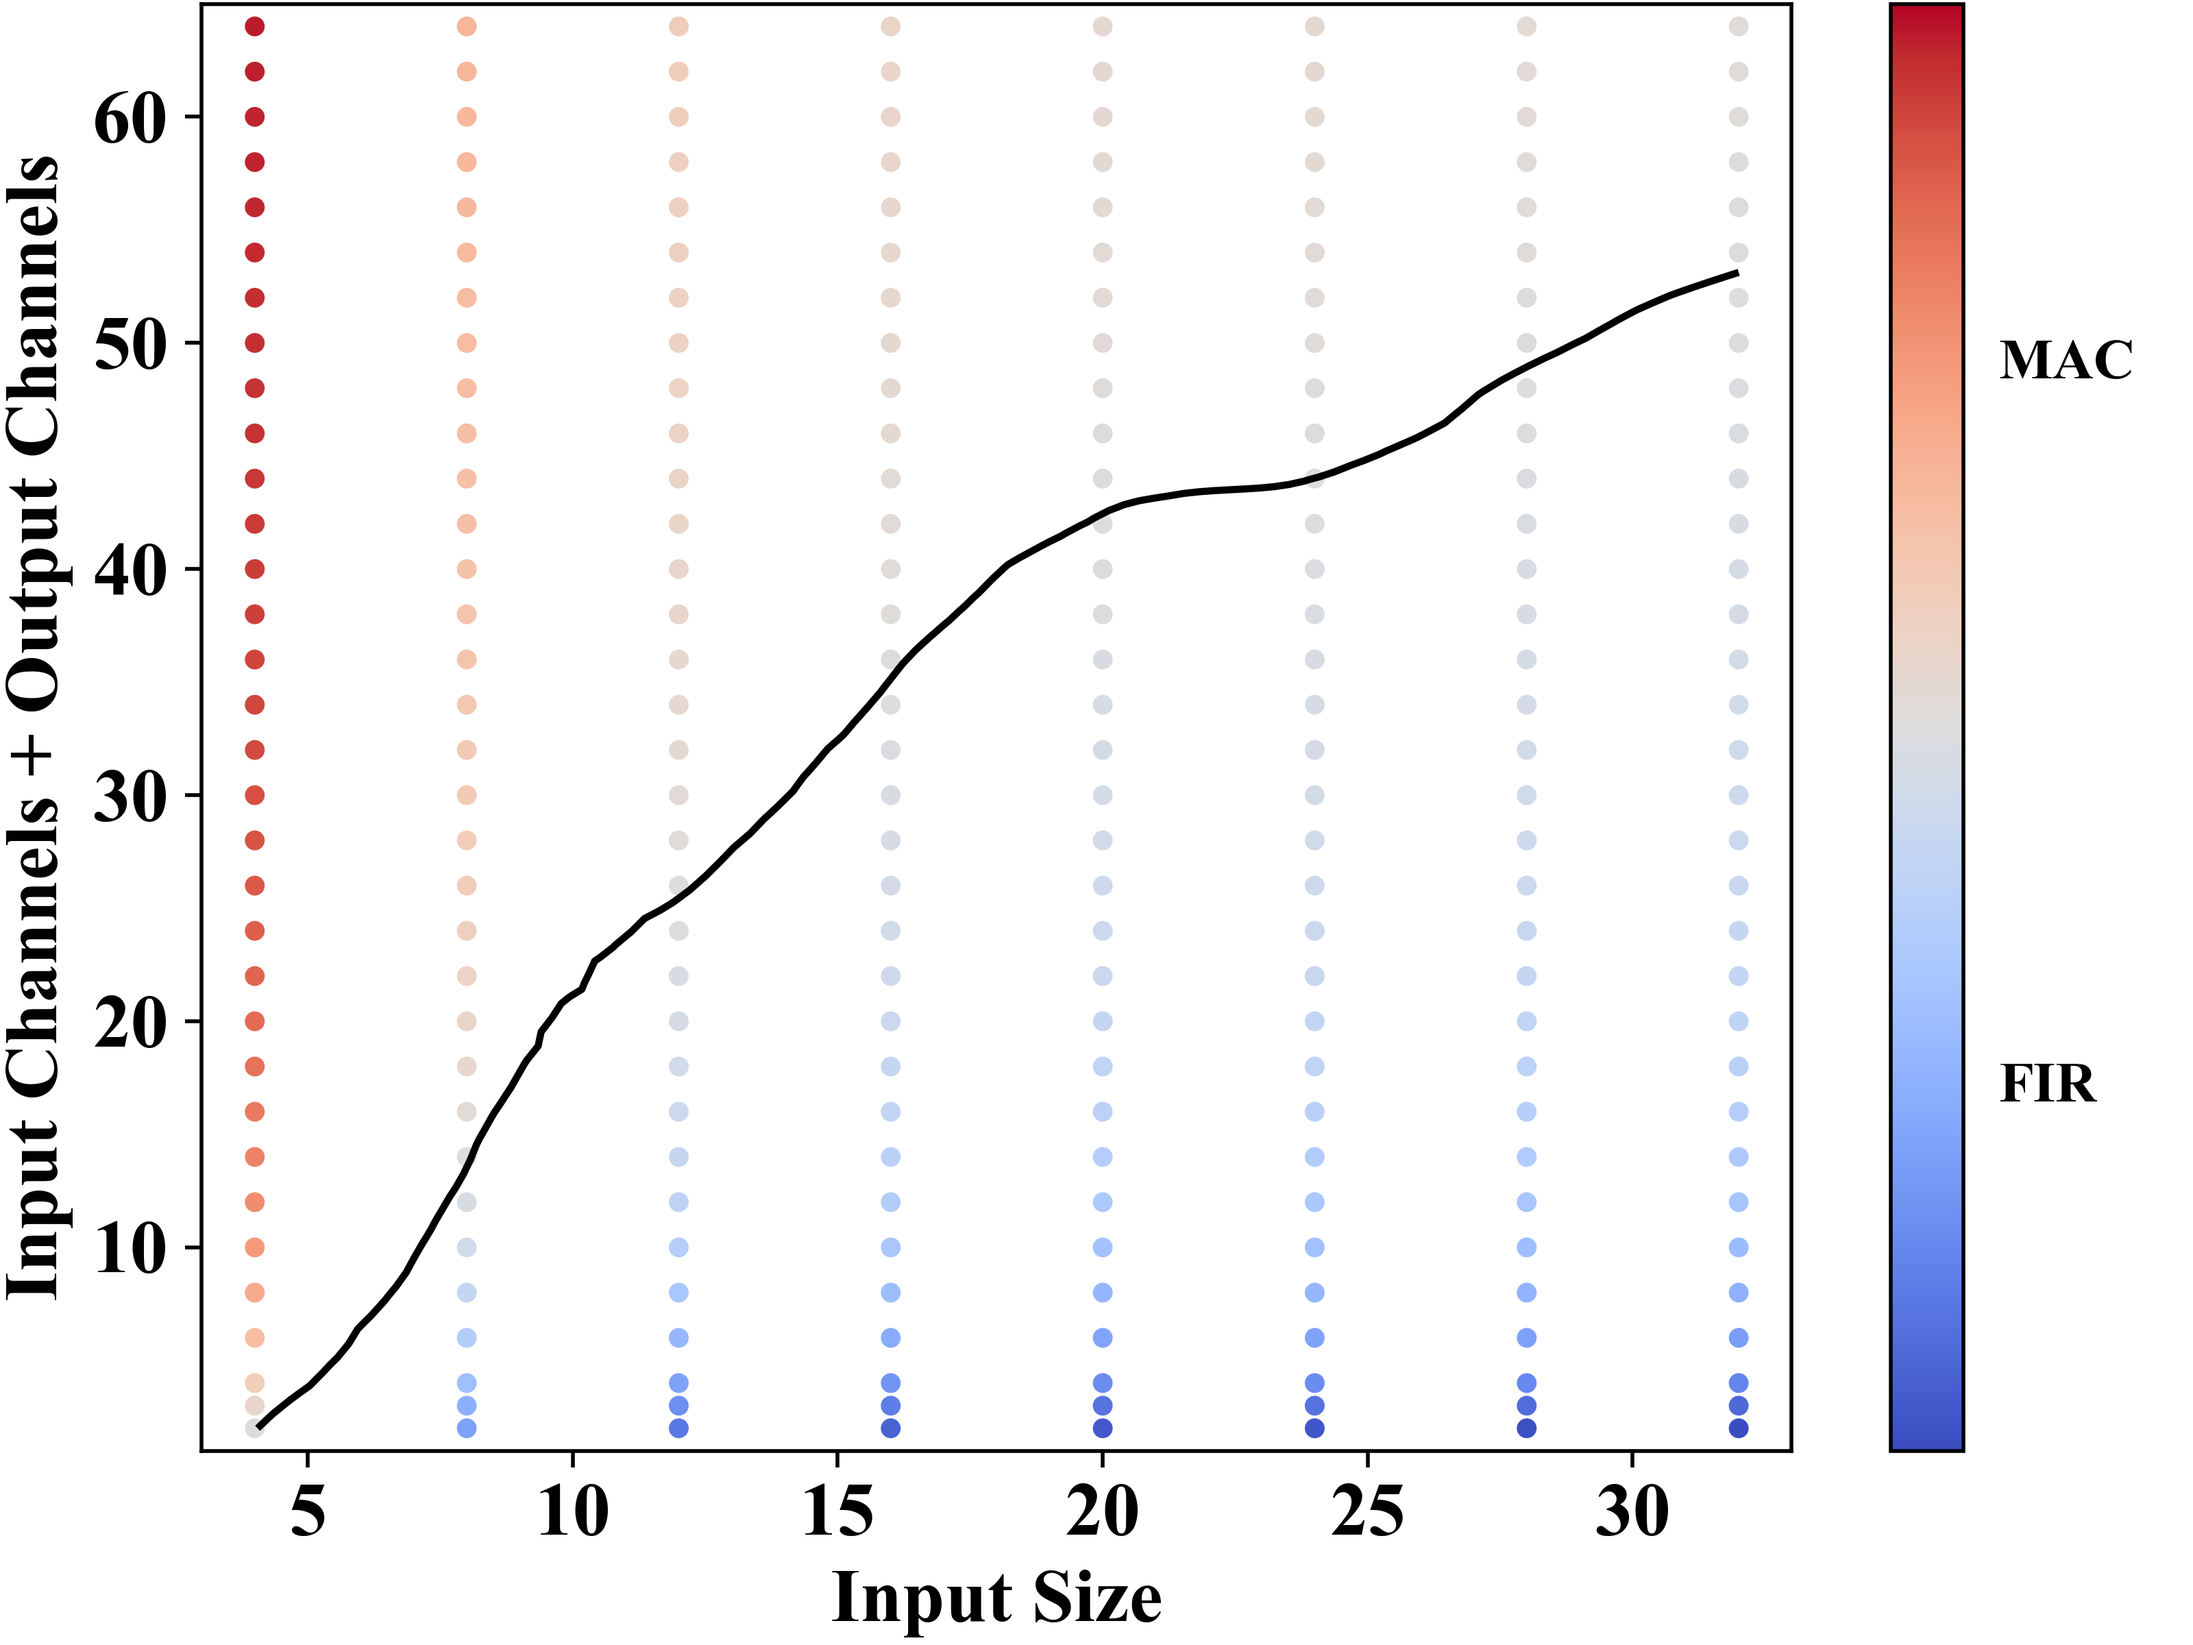
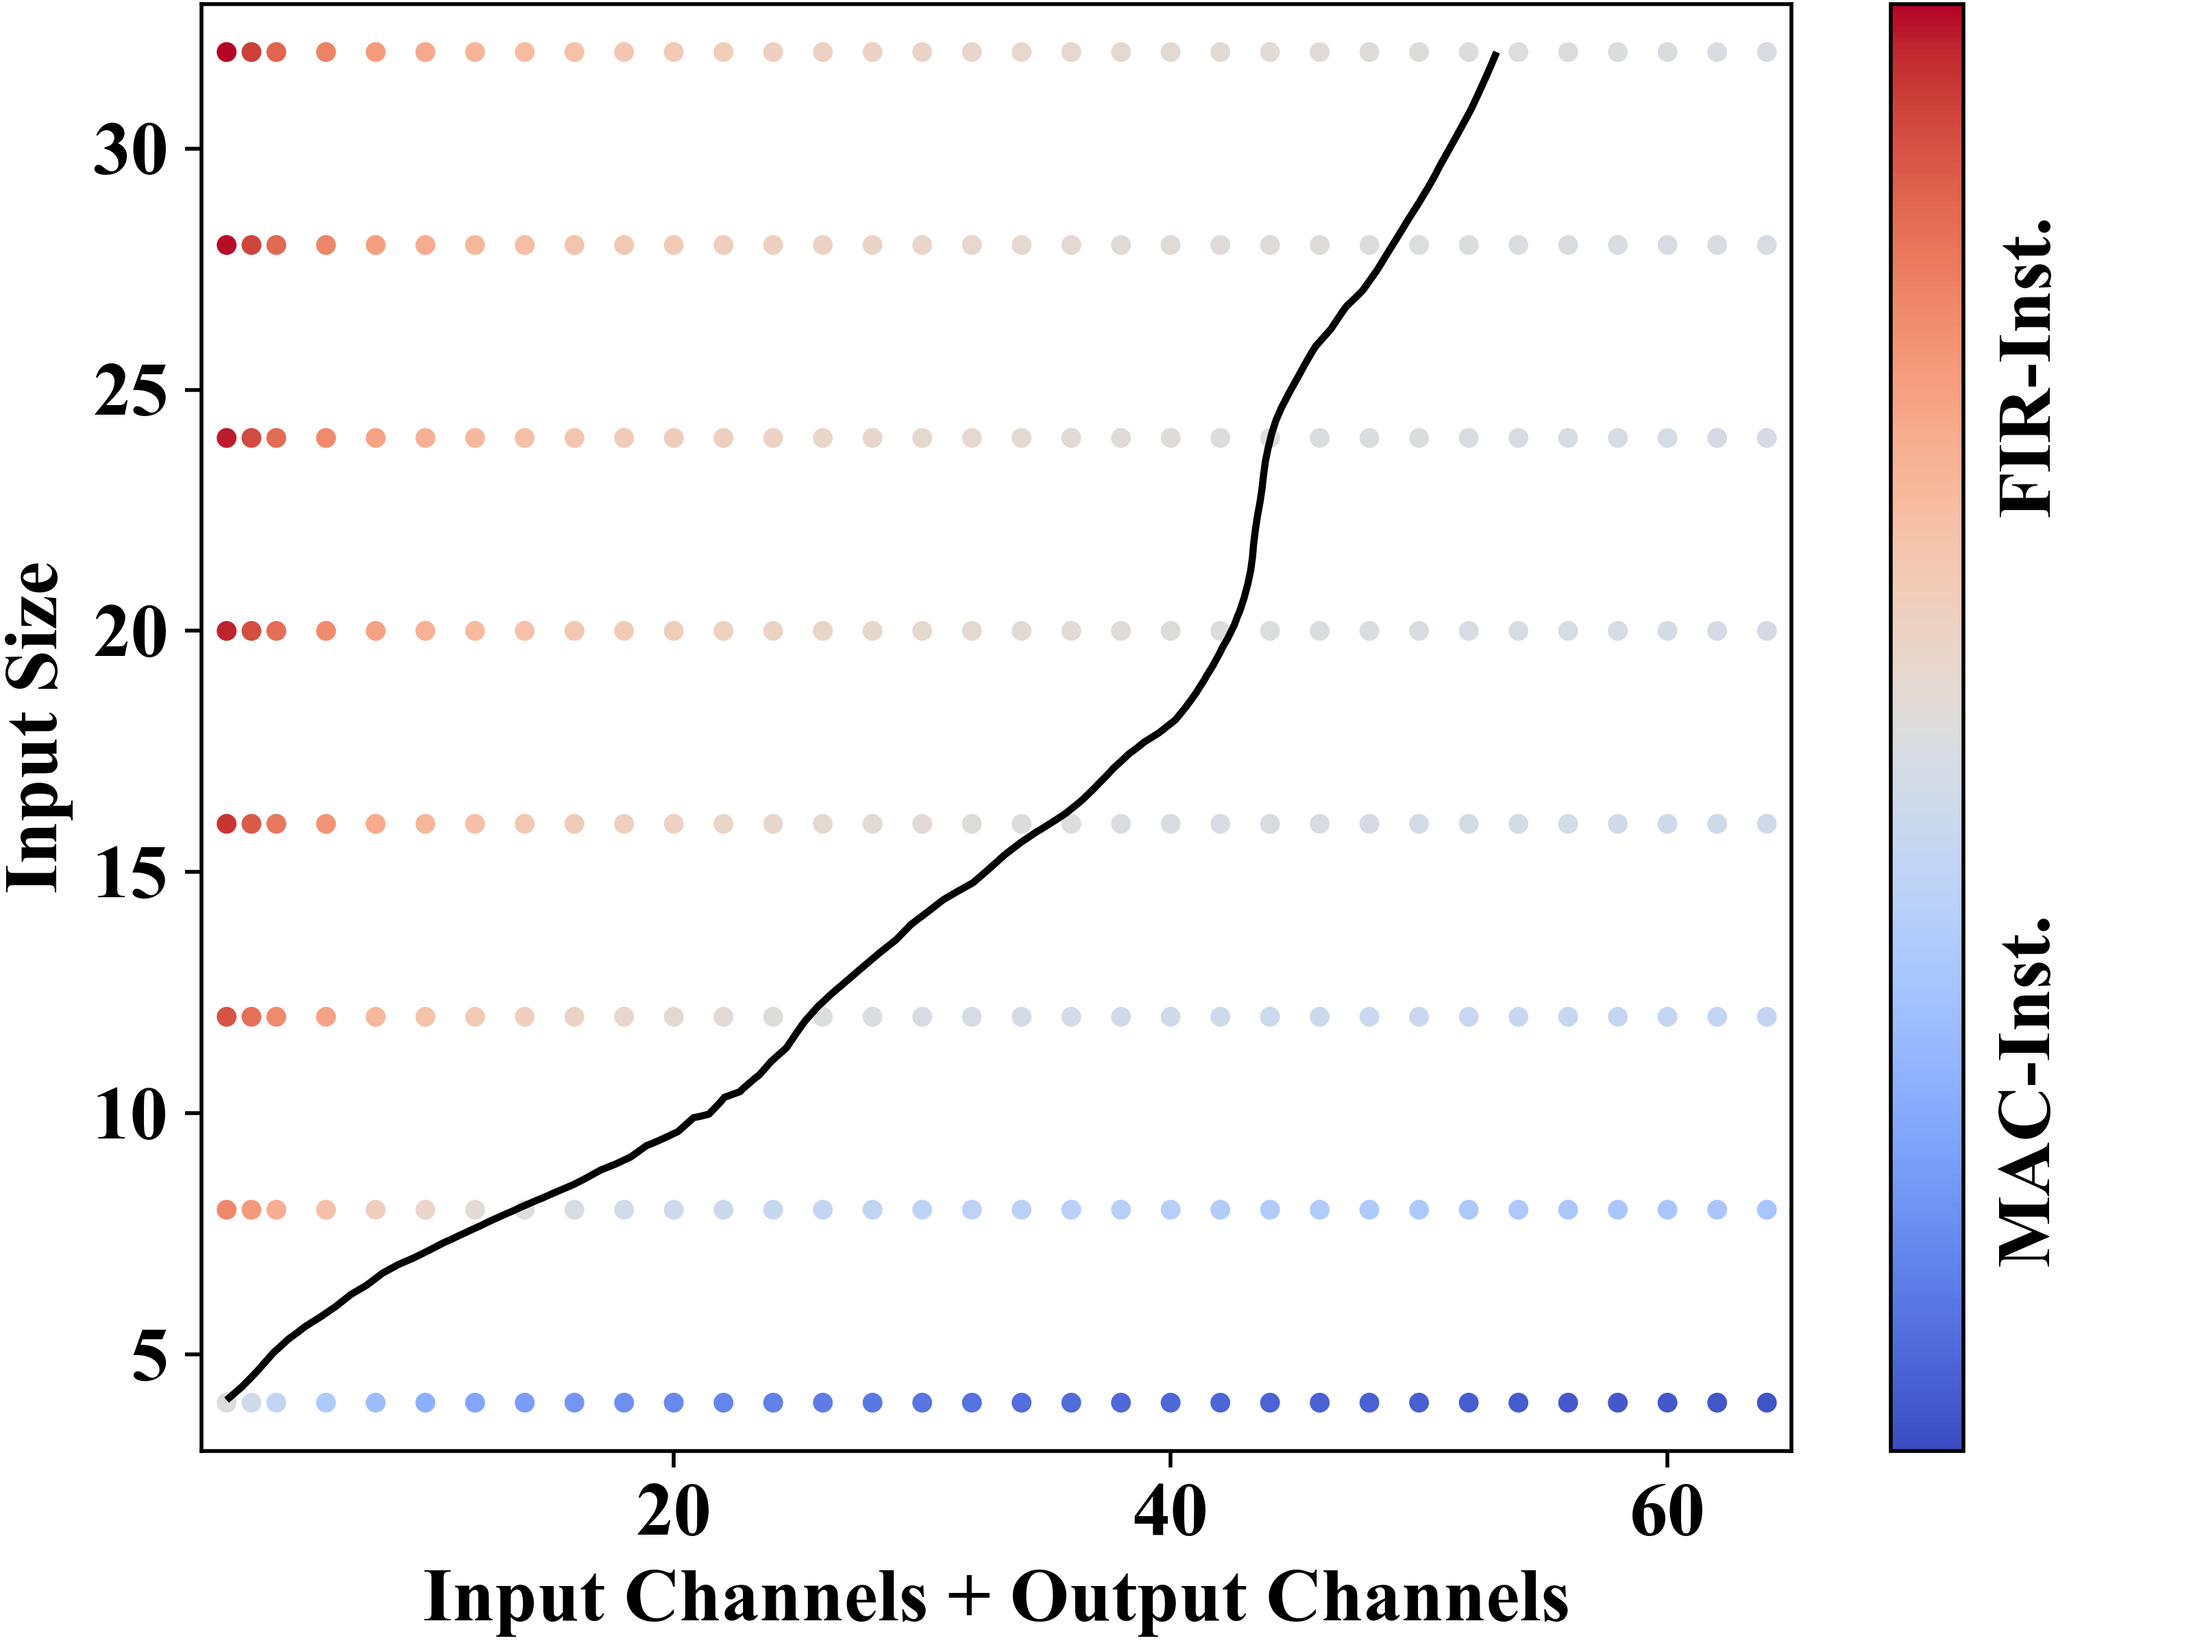
update figures

diff --git a/apps/conv_bench/logs/size_plot.py b/apps/conv_bench/logs/size_plot.py
@@ -43,7 +43,7 @@ mac_df = pd.DataFrame(mac_data)
 fir_df = pd.DataFrame(fir_data)
 tmp_df = pd.merge(fir_df, mac_df, on=['kernel_size', 'channels', 'input_size'], suffixes=('_fir', '_mac'))
 df = tmp_df.copy()
-df['time'] = tmp_df['time_fir'] - tmp_df['time_mac']
+df['time'] = tmp_df['time_mac'] - tmp_df['time_fir']
 df.drop(columns=['time_fir', 'time_mac'], inplace=True)
 
 time_max = df['time'].max()
@@ -53,26 +53,26 @@ val = max(abs(time_max), abs(time_min))
 fig = plt.figure()
 fig.add_subplot(111)
 
-x = df['input_size']
-y = df['channels']
+y = df['input_size']
+x = df['channels']
 z = df['time']
 xi = np.linspace(x.min(), x.max(), 100)
 yi = np.linspace(y.min(), y.max(), 100)
 xi, yi = np.meshgrid(xi, yi)
 zi = griddata((x, y), z, (xi, yi), method='cubic')
 
-scatter = plt.scatter(df['input_size'], df['channels'], c=df['time'], cmap='coolwarm', s=10)
+scatter = plt.scatter(df['channels'], df['input_size'], c=df['time'], cmap='coolwarm', s=10)
 cbar = plt.colorbar(scatter)
 scatter.set_clim(-val, val)
 cbar.set_ticks([])
 
 contour = plt.contour(xi, yi, zi, levels=[0], colors='black', linewidths=1.5)
 
-plt.xlabel('Input Size')
-plt.ylabel('Input Channels + Output Channels')
+plt.ylabel('Input Size')
+plt.xlabel('Input Channels + Output Channels')
 
-plt.text(1.05 + 0.08, 0.75, 'MAC', transform=plt.gca().transAxes, fontsize=12, verticalalignment='center', color='black')
-plt.text(1.05 + 0.08, 0.25, 'FIR', transform=plt.gca().transAxes, fontsize=12, verticalalignment='center', color='black')
+plt.text(1.05 + 0.08, 0.25, 'MAC-Inst.', transform=plt.gca().transAxes, fontsize=16, rotation=90, verticalalignment='center', color='black')
+plt.text(1.05 + 0.08, 0.75, 'FIR-Inst.', transform=plt.gca().transAxes, fontsize=16, rotation=90, verticalalignment='center', color='black')
 
 plt.xlim(x.min() - 1, x.max() + 1)
 plt.ylim(y.min() - 1, y.max() + 1)
